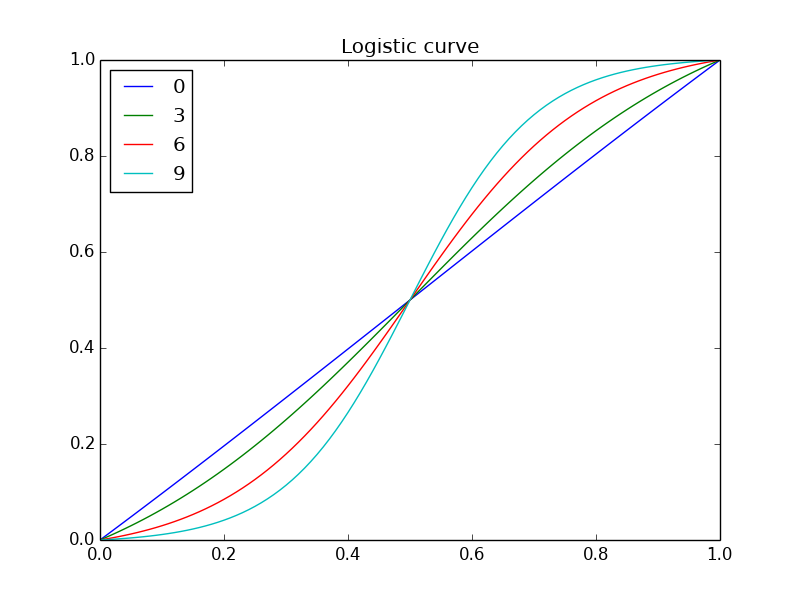
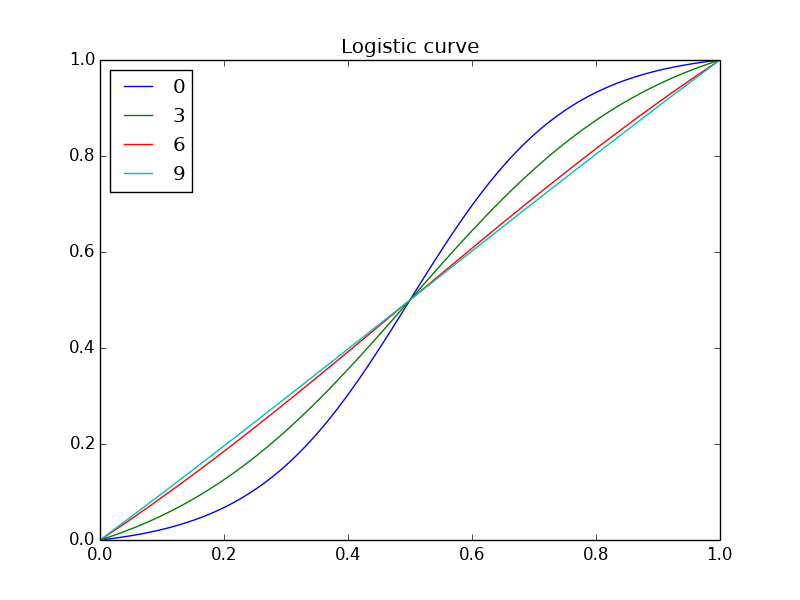
Fix logistic curve

Changed region(s): [[0.125, 0.09, 0.9062, 0.9]]

diff --git a/joy_curve_notes/plot_curves.py b/joy_curve_notes/plot_curves.py
@@ -45,7 +45,7 @@ def exponential(x, s):
 
 
 def logistic(x, s):
-    sigm = lambda x, s: 1.0/(1+np.exp((s+1)*(-x+0.5)))
+    sigm = lambda x, s: 1.0/(1+np.exp((8-s)*(-x+0.5)))
     s_x = sigm(x, s)
     s_one = sigm(1, s)
     s_zero = sigm(0, s)

diff --git a/joy_curve_notes/new_curves.md b/joy_curve_notes/new_curves.md
@@ -43,9 +43,7 @@ NB: Requires sensitivity parameter - might not make the final cut.
 
 ### Logistic based (sigmoidal):
 
-    a = s+1
-
-    S(x) = 1/(1+exp((a)*(-x+0.5)))
+    S(x) = 1/(1+exp((8-s)*(-x+0.5)))
 
     f(I) = (S(I)-S(0))/(S(1)-S(0))
 
